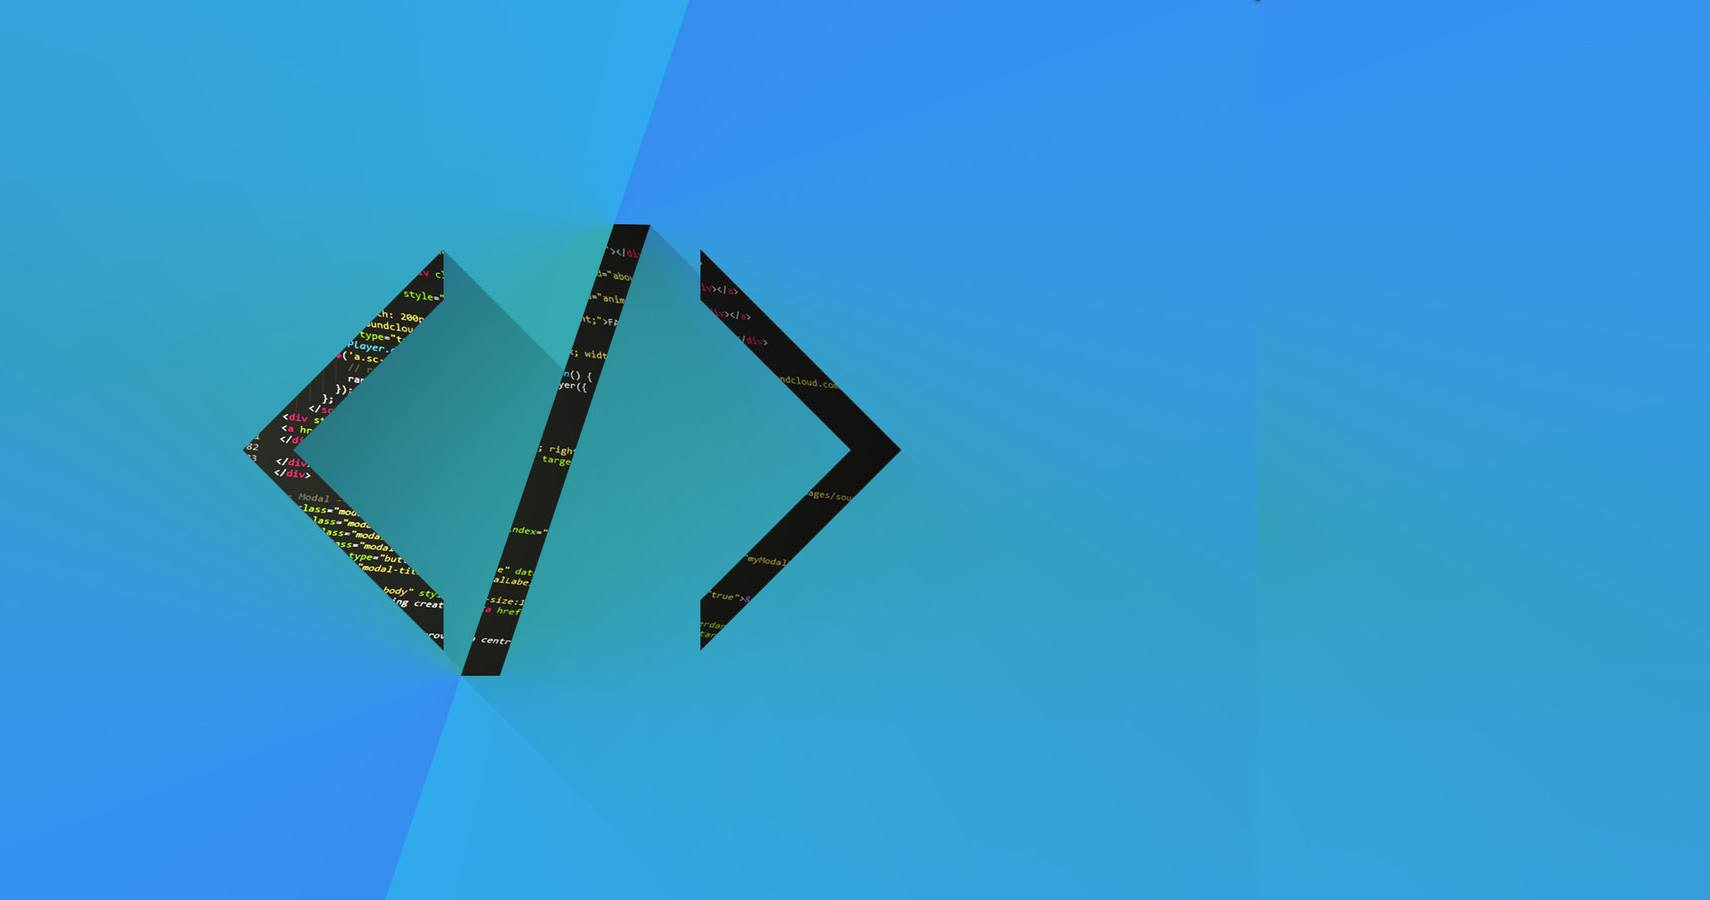
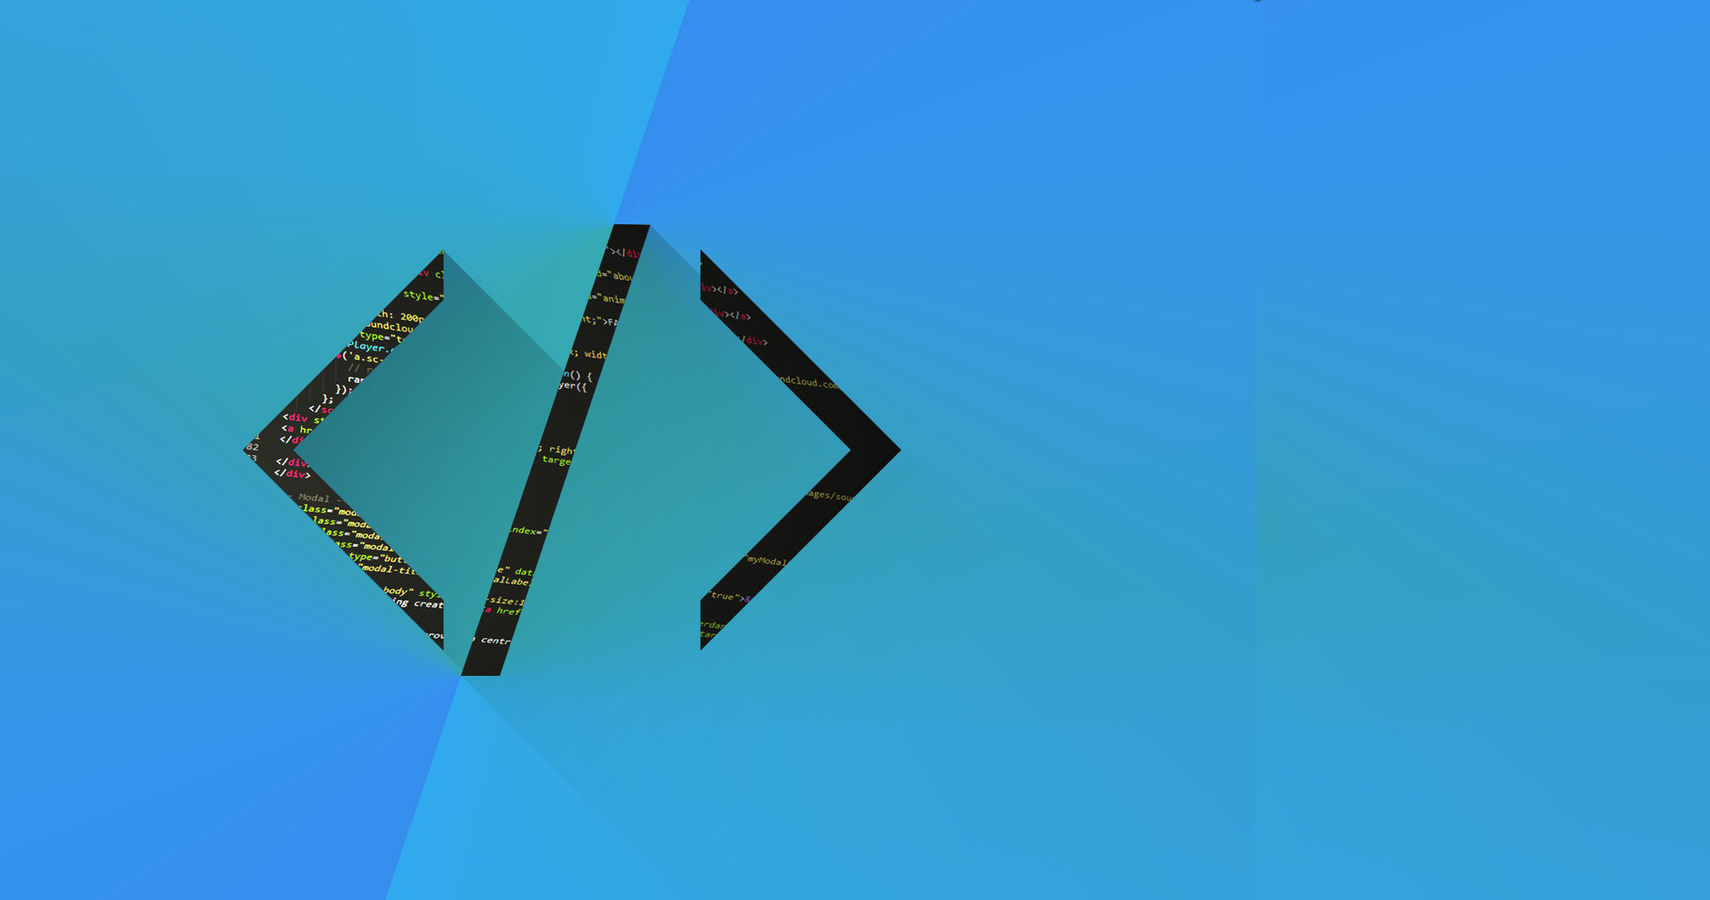
registazione

diff --git a/SocialDevelop/web/templates/home.html b/SocialDevelop/web/templates/home.html
@@ -162,9 +162,10 @@
             <div class="tab-content">
               <div class="tab-pane active" id="login">
                 <div class="gt_login_des_wrap default_width">
+                    <form id="login">
                   <div class="gt_login_field">
-                    <input type="text" placeholder="Your Email..">
-                    <label><i class="fa fa-envelope"></i></label>
+                    <input type="text" placeholder="Your Email/Username..">
+                    <label><i class="fa fa-user-circle"></i></label>
                   </div>
                   <div class="gt_login_field">
                     <input type="text" placeholder="Your Password">
@@ -172,7 +173,7 @@
                   </div>
                   <div class="gt_login_field">
                     <input type="text" placeholder="Confrim password">
-                    <label><i class="fa fa-user"></i></label>
+                    <label><i class="fa fa-lock"></i></label>
                   </div>
                   <div class="gt_login_radio_btn">
                     <input id="2" type="checkbox">
@@ -185,7 +186,9 @@
                   <div class="gt_login_field">
                     <input type="submit" value="Submit">
                   </div>
+                  </form>
                   <div class="gt_login_field">
+                 
                     <p>Signin with Social Networks</p>
                     <ul class="gt_scl_icon">
                       <li><a class="bg_fb" href="#"><i class="fa fa-facebook"></i></a></li>
@@ -201,33 +204,35 @@
               </div>
               <div class="tab-pane" id="register">
                 <div class="gt_login_des_wrap default_width">
+                  <form id="registrati" action="Login" method="post">
                   <div class="gt_login_field">
-                    <input type="text" placeholder="First Name">
+                    <input type="text" name="first_name" placeholder="First Name">
                     <label><i class="fa fa-user"></i></label>
                   </div>
                   <div class="gt_login_field">
-                    <input type="text" placeholder="Last Name">
+                    <input type="text" name="second_name" placeholder="Last Name">
                     <label><i class="fa fa-user"></i></label>
+                  </div>  
+                  <div class="gt_login_field">
+                    <input type="text" name="username" placeholder="Username">
+                    <label><i class="fa fa-user-circle"></i></label>
                   </div>
                   <div class="gt_login_field">
-                    <input type="text" placeholder="Your Email Address">
+                    <input type="text" name="mail" placeholder="Your Email Address">
                     <label><i class="fa fa-envelope"></i></label>
                   </div>
                   <div class="gt_login_field">
-                    <input type="text" placeholder="Phone Number">
-                    <label><i class="fa fa-phone"></i></label>
-                  </div>
-                  <div class="gt_login_field">
-                    <input type="text" placeholder="Your Password">
+                    <input type="password" name="pwd" placeholder="Your Password">
                     <label><i class="icon-lock"></i></label>
                   </div>
                   <div class="gt_login_field">
-                    <input type="text" placeholder="Confrim password">
+                    <input type="password" name="pwd2" placeholder="Confirm password">
                     <label><i class="icon-lock"></i></label>
                   </div>
                   <div class="gt_login_field">
                     <input type="submit" value="Submit">
                   </div>
+                  </form>
                 </div>
               </div>
             </div>

diff --git a/SocialDevelop/web/css/login-register.css b/SocialDevelop/web/css/login-register.css
@@ -5,6 +5,7 @@ ul.gt_login_link li a{display: block;font-size: 18px;color: #ffffff;text-transfo
 .gt_login_des_wrap{padding: 20px;}
 .gt_login_field,.gt_login_radio_btn{float: left;width: 100%;position: relative;}
 .gt_login_field input[type="text"]{width: 100%;height: 45px;border-radius: 50px;background-color: #4d4d4d;padding: 8px 10px 8px 60px;color: #f2f2f2;margin-bottom: 15px;}
+.gt_login_field input[type="password"]{width: 100%;height: 45px;border-radius: 50px;background-color: #4d4d4d;padding: 8px 10px 8px 60px;color: #f2f2f2;margin-bottom: 15px;}
 .gt_login_field>label{position: absolute;height: 43px;width: 50px;text-align: center;color: #ffffff;top: 1px;left: 0px;margin: 0px;line-height: 44px;font-size: 18px;border-top-left-radius: 50px;border-bottom-left-radius: 50px;}
 .gt_login_radio_btn{padding-left: 15px;margin-bottom: 5px;}
 .gt_login_radio_btn input[type="checkbox"] {

diff --git a/SocialDevelop/web/style.css b/SocialDevelop/web/style.css
@@ -517,7 +517,7 @@ ul.gt_event_meta li>a{display: inline-block;color: #999999;margin-left: 5px;}
 	  ==============================================================
 */
 .home_background_login{background-color: white;}
-.home_background{background-image: url(extra-images/code.jpg);background-size: cover;background-position: center;background-repeat: no-repeat;}
+.home_background{background-image: url(extra-images/code3.jpg);background-size: cover;background-position: center;background-repeat: no-repeat;}
 .gt_sub_banner_bg{background-image: url(extra-images/back1.jpg);background-size: cover;background-position: center;background-repeat: no-repeat;}
 .gt_sub_banner_bg:before{content: "";position: absolute;top: 0px;left: 0px;width: 100%;height: 100%;background-color: rgba(0,0,0,0.8);}
 .gt_sub_banner_hdg{text-align: center;padding: 80px 0px;}

diff --git a/SocialDevelop/src/java/socialdevelop/controller/Login.java b/SocialDevelop/src/java/socialdevelop/controller/Login.java
@@ -1,0 +1,119 @@
+/*
+ * Login.java
+ *
+ * Questo esempio mostra come utilizzare le sessioni per autenticare un utente
+ * 
+ * This example shows how to use sessions to authenticate the user
+ *
+ */
+package socialdevelop.controller;
+
+
+import it.univaq.f4i.iw.framework.data.DataLayerException;
+import it.univaq.f4i.iw.framework.result.TemplateManagerException;
+import it.univaq.f4i.iw.framework.result.TemplateResult;
+import java.io.IOException;
+import java.sql.SQLException;
+import java.util.logging.Level;
+import java.util.logging.Logger;
+import javax.annotation.Resource;
+import javax.naming.NamingException;
+import javax.servlet.ServletException;
+import javax.servlet.http.HttpServletRequest;
+import javax.servlet.http.HttpServletResponse;
+import javax.sql.DataSource;
+import socialdevelop.data.impl.DeveloperImpl;
+import socialdevelop.data.impl.SocialDevelopDataLayerMysqlImpl;
+import socialdevelop.data.model.SocialDevelopDataLayer;
+
+/**
+ *
+ * @author Ingegneria del Web
+ * @version
+ */
+public class Login extends SocialDevelopBaseController {
+    
+      @Resource(name = "jdbc/mydb")
+    private DataSource ds;
+   
+     private void action_login(HttpServletRequest request, HttpServletResponse response) throws IOException, ServletException, TemplateManagerException, DataLayerException, SQLException, NamingException {
+            
+            String name = request.getParameter("first_name");
+            String surname = request.getParameter("second_name");
+            String username = request.getParameter("username");
+            String mail = request.getParameter("mail");
+            String pwd = request.getParameter("pwd");
+            String pwd2 = request.getParameter("pwd2");
+            
+            //SocialDevelopDataLayer datalayer = (SocialDevelopDataLayer)request.getAttribute("datalayer");
+            //socialdevelopdatalayer è null
+            SocialDevelopDataLayer datalayer = new SocialDevelopDataLayerMysqlImpl(ds);
+            datalayer.init();
+            DeveloperImpl dev = new DeveloperImpl(datalayer);
+            if(pwd.equals(pwd2)){
+                dev.setName(name);
+                dev.setSurname(surname);
+                dev.setUsername(username);
+                dev.setMail(mail);
+                dev.setPwd(pwd);
+                datalayer.storeDeveloper(dev);
+                
+                request.setAttribute("page_title", username+", ");
+                request.setAttribute("page_subtitle", "Benvenuto in SocialDevelop!");
+                TemplateResult res = new TemplateResult(getServletContext());
+                res.activate(null,request, response);  
+            }else{
+                //errore e torna sulla stessa pagina
+            }
+            
+    }
+    
+    @Override
+    protected void processRequest(HttpServletRequest request, HttpServletResponse response)
+            throws ServletException {
+        try {
+            action_login(request, response);
+        } catch (IOException ex) {
+            Logger.getLogger(MakeLoginReg.class.getName()).log(Level.SEVERE, null, ex);
+        } catch (TemplateManagerException ex) {
+            Logger.getLogger(MakeLoginReg.class.getName()).log(Level.SEVERE, null, ex);
+        } catch (DataLayerException ex) {
+             Logger.getLogger(Login.class.getName()).log(Level.SEVERE, null, ex);
+         } catch (SQLException ex) {
+              Logger.getLogger(Login.class.getName()).log(Level.SEVERE, null, ex);
+          } catch (NamingException ex) {
+              Logger.getLogger(Login.class.getName()).log(Level.SEVERE, null, ex);
+          }
+    }
+
+    // <editor-fold defaultstate="collapsed" desc="HttpServlet methods. Click on the + sign on the left to edit the code.">
+    /**
+     * Handles the HTTP <code>GET</code> method.
+     *
+     * @param request servlet request
+     * @param response servlet response
+     */
+    protected void doGet(HttpServletRequest request, HttpServletResponse response)
+            throws ServletException, IOException {
+        processRequest(request, response);
+    }
+
+    /**
+     * Handles the HTTP <code>POST</code> method.
+     *
+     * @param request servlet request
+     * @param response servlet response
+     */
+    protected void doPost(HttpServletRequest request, HttpServletResponse response)
+            throws ServletException, IOException {
+        processRequest(request, response);
+    }
+
+    /**
+     * Returns a short description of the servlet.
+     */
+    public String getServletInfo() {
+        return "Short description";
+    }
+    // </editor-fold>
+}

diff --git a/SocialDevelop/src/java/socialdevelop/data/impl/SocialDevelopDataLayerMysqlImpl.java b/SocialDevelop/src/java/socialdevelop/data/impl/SocialDevelopDataLayerMysqlImpl.java
@@ -292,11 +292,17 @@ public class SocialDevelopDataLayerMysqlImpl extends DataLayerMysqlImpl implemen
             a.setMail(rs.getString("mail"));
             a.setPwd(rs.getString("pwd"));
             a.setBiography(rs.getString("biography"));
-            GregorianCalendar birthdate = new GregorianCalendar();
             java.sql.Date date;
             date = rs.getDate("birthdate");
-            birthdate.setTime(date);
-            a.setBirthDate(birthdate);
+            if(date != null){
+                GregorianCalendar birthdate = new GregorianCalendar();
+                birthdate.setTime(date);
+                a.setBirthDate(birthdate);
+
+            }else{
+                a.setBirthDate(null);
+            }
+            
             a.setCurriculum(rs.getString("curriculumString"));
             //PROBLEMA CON FILE!!!!
             //a.setCurriculum(rs.getFile("curriculumFile"));
@@ -990,8 +996,12 @@ public class SocialDevelopDataLayerMysqlImpl extends DataLayerMysqlImpl implemen
                 iDeveloper.setString(3, developer.getUsername());
                 iDeveloper.setString(4, developer.getMail());
                 iDeveloper.setString(5, developer.getPwd());
-                Date sqldate = new Date(developer.getBirthDate().getTimeInMillis());
-                iDeveloper.setDate(6, sqldate);
+                if(developer.getBirthDate()!= null){
+                    Date sqldate = new Date(developer.getBirthDate().getTimeInMillis());
+                    iDeveloper.setDate(6, sqldate);
+                }else{
+                    iDeveloper.setDate(6, null);
+                }
                 iDeveloper.setString(7, developer.getBiography());
                 //iDeveloper.setFile(8, developer.getCurriculumFile());
                 iDeveloper.setString(8, developer.getCurriculumString());

diff --git a/SocialDevelop/src/java/socialdevelop/controller/Home.java b/SocialDevelop/src/java/socialdevelop/controller/Home.java
@@ -17,6 +17,7 @@ import javax.servlet.ServletException;
 import javax.servlet.http.HttpServlet;
 import javax.servlet.http.HttpServletRequest;
 import javax.servlet.http.HttpServletResponse;
+import socialdevelop.data.model.SocialDevelopDataLayer;
 
 /**
  *
@@ -26,14 +27,10 @@ public class Home extends SocialDevelopBaseController {
     
     
     private void action_home(HttpServletRequest request, HttpServletResponse response) throws IOException, ServletException, TemplateManagerException {
-                
-           RequestDispatcher view = request.getRequestDispatcher("templates/home.html");
+           
+            RequestDispatcher view = request.getRequestDispatcher("templates/home.html");
             view.forward(request, response);
-            //TemplateResult res = new TemplateResult(getServletContext());
-            //aggiungiamo al template un wrapper che ci permette di chiamare la funzione stripSlashes
-            //add to the template a wrapper object that allows to call the stripslashes function
-            //res.activate("home.html",request, response);  //al posto di ciao va inserito il nome dell'html da attivare
-       
+            
     }
     
     
